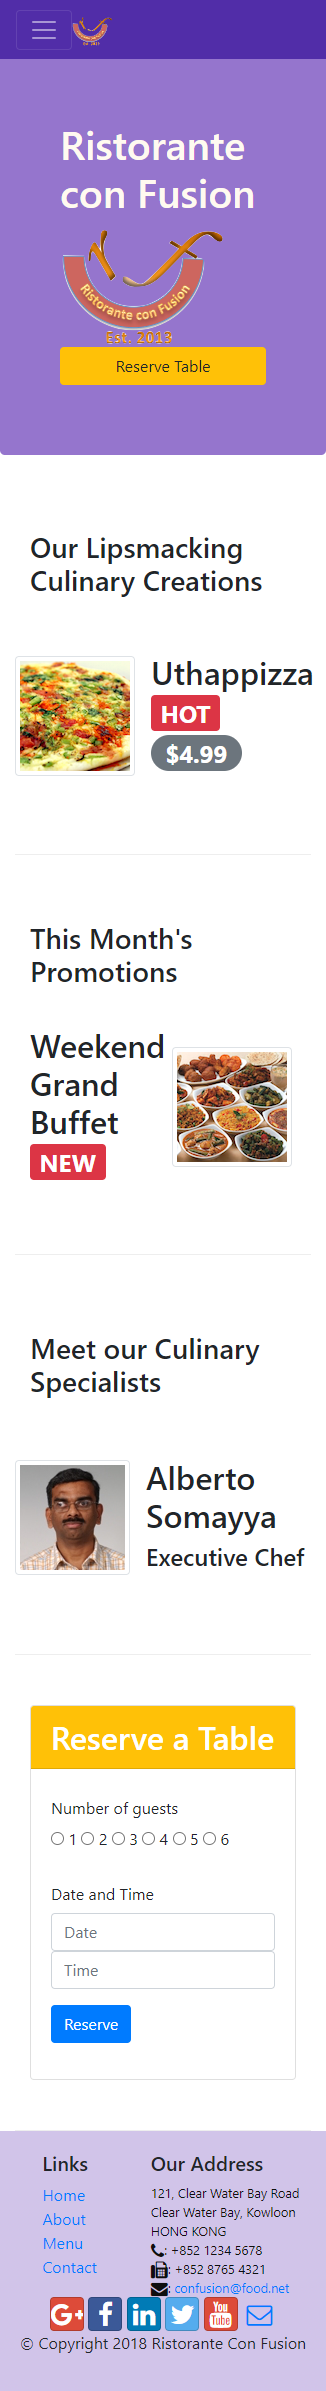
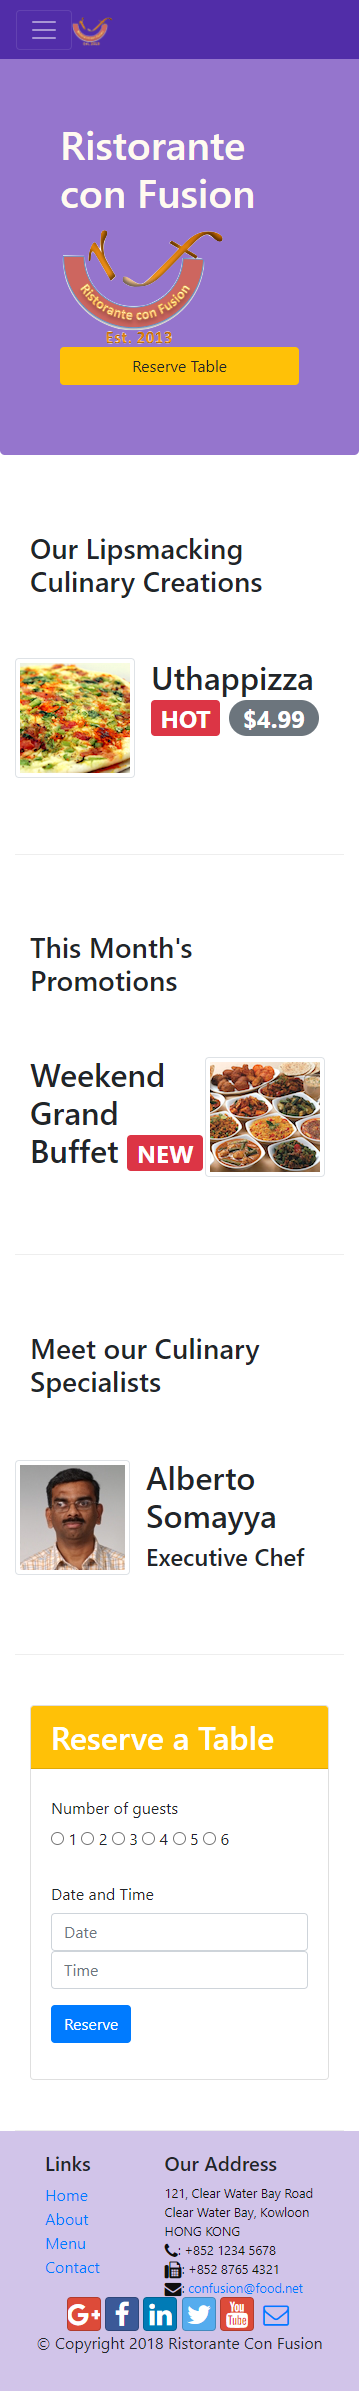
tabs

diff --git a/aboutus.html b/aboutus.html
@@ -102,14 +102,47 @@
         <div class="row row-content">
             <div class="col-12">
                 <h2>Corporate Leadership</h2>
-                <h3>Peter Pan <small>Chief Epicurious Officer</small></h3>
-                <p class="d-none d-sm-block">Our CEO, Peter, credits his hardworking East Asian immigrant parents who undertook the arduous journey to the shores of America with the intention of giving their children the best future. His mother's wizardy in the kitchen whipping up the tastiest dishes with whatever is available inexpensively at the supermarket, was his first inspiration to create the fusion cuisines for which <em>The Frying Pan</em> became well known. He brings his zeal for fusion cuisines to this restaurant, pioneering cross-cultural culinary connections.</p>
-                <h3>Dhanasekaran Witherspoon <small>Chief Food Officer</small></h3>
-                <p class="d-none d-sm-block">Our CFO, Danny, as he is affectionately referred to by his colleagues, comes from a long established family tradition in farming and produce. His experiences growing up on a farm in the Australian outback gave him great appreciation for varieties of food sources. As he puts it in his own words, <em>Everything that runs, wins, and everything that stays, pays!</em></p>
-                <h3>Agumbe Tang <small>Chief Taste Officer</small></h3>
-                <p class="d-none d-sm-block">Blessed with the most discerning gustatory sense, Agumbe, our CTO, personally ensures that every dish that we serve meets his exacting tastes. Our chefs dread the tongue lashing that ensues if their dish does not meet his exacting standards. He lives by his motto, <em>You click only if you survive my lick.</em></p>
-                <h3>Alberto Somayya <small>Executive Chef</small></h3>
-                <p class="d-none d-sm-block">Award winning three-star Michelin chef with wide International experience having worked closely with whos-who in the culinary world, he specializes in creating mouthwatering Indo-Italian fusion experiences. He says, <em>Put together the cuisines from the two craziest cultures, and you get a winning hit! Amma Mia!</em></p>
+                <ul class="nav nav-tabs">
+                    <li class="nav-item">
+                      <a class="nav-link active" href="#peter"
+                        role="tab" data-toggle="tab">Peter Pan, CEO</a>
+                    </li>
+                    <li class="nav-item">
+                      <a class="nav-link" href="#danny" role="tab"
+                        data-toggle="tab">Danny Witherspoon, CFO</a>
+                    </li>
+                    <li class="nav-item">
+                      <a class="nav-link" href="#agumbe"role="tab"
+                        data-toggle="tab">Agumbe Tang, CTO</a>
+                    </li>
+                    <li class="nav-item">
+                      <a class="nav-link" href="#alberto" role="tab"
+                        data-toggle="tab">Alberto Somayya, Exec. Chef</a>
+                    </li>
+                </ul>
+                <div class="tab-content">
+
+                    <div role="tabpanel" class="tab-pane fade show active" id="peter">
+                        <h3>Peter Pan <small>Chief Epicurious Officer</small></h3>
+                        <p class="d-none d-sm-block">Our CEO, Peter, credits his hardworking East Asian immigrant parents who undertook the arduous journey to the shores of America with the intention of giving their children the best future. His mother's wizardy in the kitchen whipping up the tastiest dishes with whatever is available inexpensively at the supermarket, was his first inspiration to create the fusion cuisines for which <em>The Frying Pan</em> became well known. He brings his zeal for fusion cuisines to this restaurant, pioneering cross-cultural culinary connections.</p>
+                    </div>
+
+                    <div role="tabpanel" class="tab-pane fade" id="danny">
+                        <h3>Dhanasekaran Witherspoon <small>Chief Food Officer</small></h3>
+                        <p class="d-none d-sm-block">Our CFO, Danny, as he is affectionately referred to by his colleagues, comes from a long established family tradition in farming and produce. His experiences growing up on a farm in the Australian outback gave him great appreciation for varieties of food sources. As he puts it in his own words, <em>Everything that runs, wins, and everything that stays, pays!</em></p>
+                    </div>
+
+                    <div role="tabpanel" class="tab-pane fade" id="agumbe">    
+                        <h3>Agumbe Tang <small>Chief Taste Officer</small></h3>
+                        <p class="d-none d-sm-block">Blessed with the most discerning gustatory sense, Agumbe, our CTO, personally ensures that every dish that we serve meets his exacting tastes. Our chefs dread the tongue lashing that ensues if their dish does not meet his exacting standards. He lives by his motto, <em>You click only if you survive my lick.</em></p>
+                    </div>
+
+                    <div role="tabpanel" class="tab-pane fade" id="alberto">  
+                        <h3>Alberto Somayya <small>Executive Chef</small></h3>
+                        <p class="d-none d-sm-block">Award winning three-star Michelin chef with wide International experience having worked closely with whos-who in the culinary world, he specializes in creating mouthwatering Indo-Italian fusion experiences. He says, <em>Put together the cuisines from the two craziest cultures, and you get a winning hit! Amma Mia!</em></p>
+                    </div>
+                    
+                </div>
             </div>
         </div>
         <div class="row row-content">

diff --git a/index.html b/index.html
@@ -46,7 +46,7 @@
                     <img src="img/logo.png" class="img-fluid">
                 </div>
                 <div class="col-12 col-sm align-self-center">
-                    <a href="#reservetb" class="btn btn-warning btn-block" role="button" >Reserve Table</a>
+                    <a href="#reservetb" class="btn btn-warning btn-block btn-sm" role="button" >Reserve Table</a>
                 </div>
             </div>
         </div>
@@ -80,7 +80,7 @@
                     <h2>Weekend Grand Buffet <span class="badge badge-danger">NEW</span></h2>
                     <p class="d-none d-sm-block">Featuring mouthwatering combinations with a choice of five different salads, six enticing appetizers, six main entrees and five choicest desserts. Free flowing bubbly and soft drinks. All for just $19.99 per person </p>
                     </div>
-                    <img class="d-flex mr-1 img-thumbnail align-self-center" src="img/buffet.png" alt="Buffet">
+                    <img class="d-flex ml-3 img-thumbnail align-self-center" src="img/buffet.png" alt="Buffet">
                 </div>
             </div>
         </div>

diff --git a/css/styles.css b/css/styles.css
@@ -37,3 +37,10 @@ address{
     margin:0px;
     color:#0f0f0f;
 }
+
+.tab-content {
+    border-left: 1px solid #ddd;
+    border-right: 1px solid #ddd;
+    border-bottom: 1px solid #ddd;
+    padding: 10px;
+}
